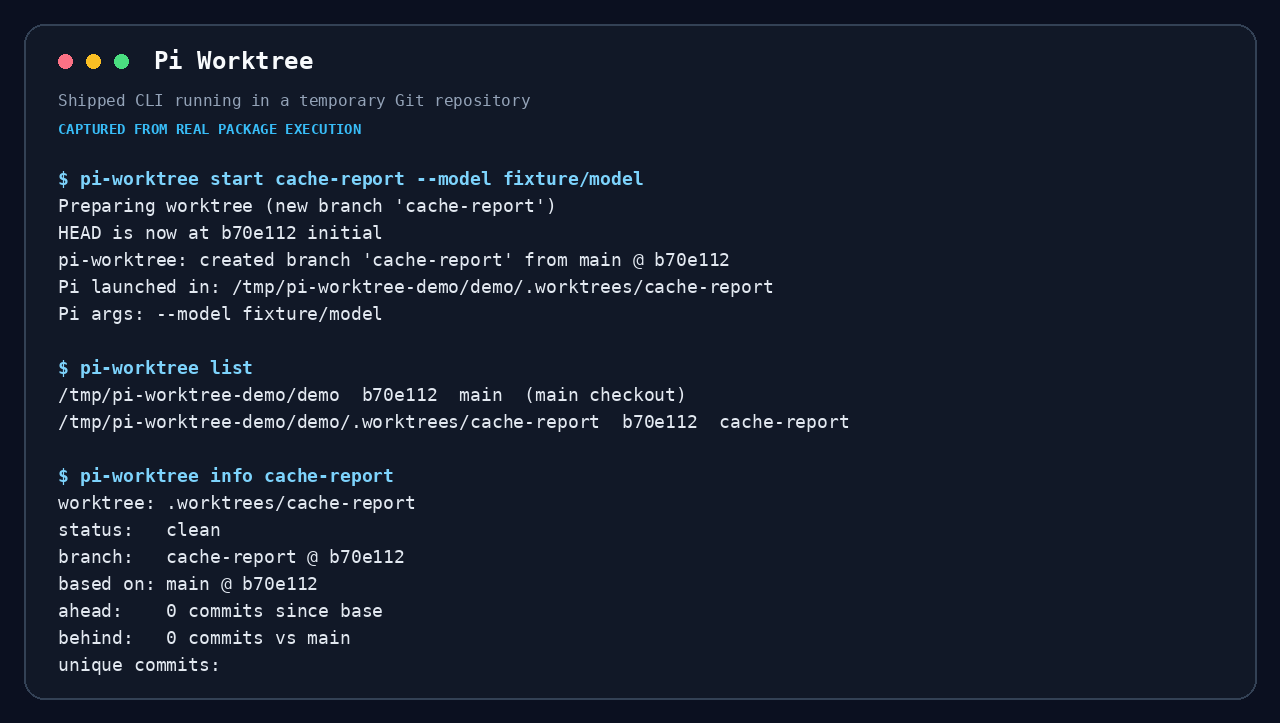
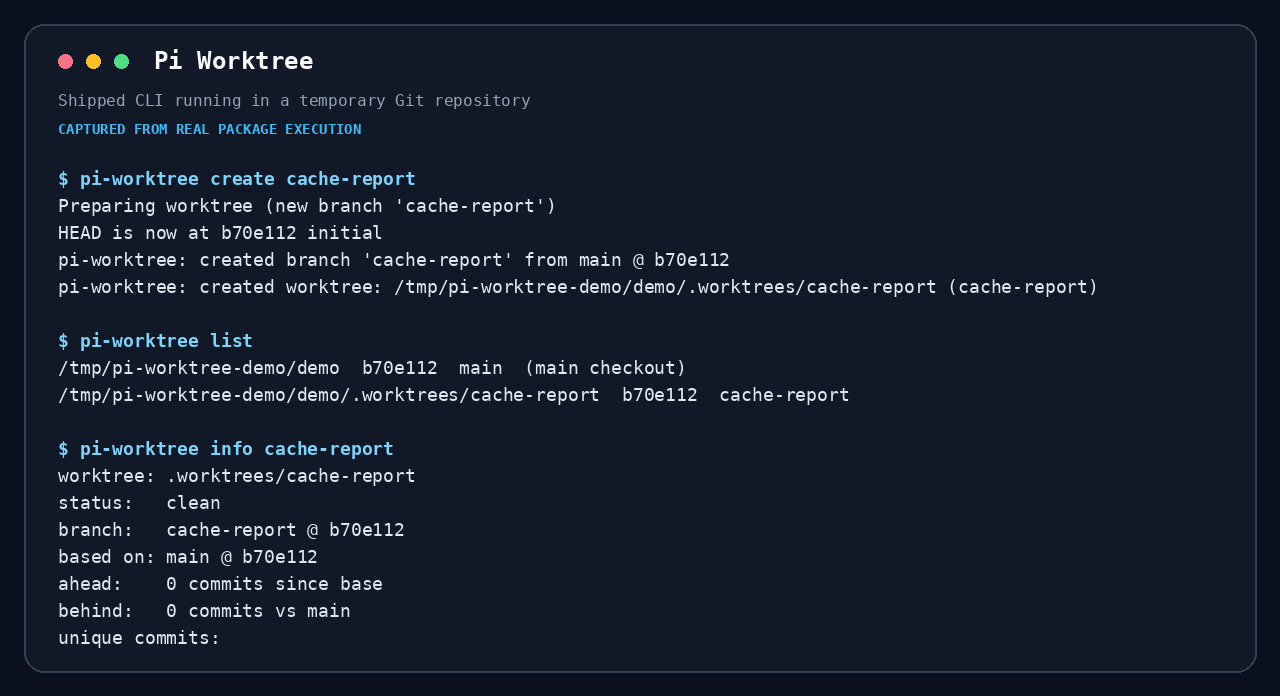
replace worktree CLI with create command

diff --git a/packages/worktree/extensions/worktree.ts b/packages/worktree/extensions/worktree.ts
@@ -7,14 +7,14 @@ import { Type } from "typebox";
 const CLI_PATH = fileURLToPath(new URL("../bin/pi-worktree", import.meta.url));
 const PENDING_SWITCH_ARGUMENT = "__enter_worktree_pending__";
 
-export interface WorktreePrepareResult {
+export interface WorktreeCreateResult {
   status: "created" | "attached" | "reused" | "already-active";
   path: string;
   branch: string;
   dirty: boolean;
 }
 
-export interface EnterWorktreeResult extends WorktreePrepareResult {
+export interface EnterWorktreeResult extends WorktreeCreateResult {
   switch: "scheduled" | "already-active";
 }
 
@@ -49,41 +49,41 @@ function parseCommandArgs(input: string): { name: string; base?: string } {
   return { name, base };
 }
 
-function parsePrepareOutput(stdout: string): WorktreePrepareResult {
+function parseCreateOutput(stdout: string): WorktreeCreateResult {
   const line = stdout.trim().split("\n").filter(Boolean).at(-1);
-  if (!line) throw new Error("pi-worktree prepare 没有返回结果");
-  const result = JSON.parse(line) as Partial<WorktreePrepareResult>;
+  if (!line) throw new Error("pi-worktree create 没有返回结果");
+  const result = JSON.parse(line) as Partial<WorktreeCreateResult>;
   if (
     !["created", "attached", "reused", "already-active"].includes(String(result.status))
     || typeof result.path !== "string"
     || typeof result.branch !== "string"
     || typeof result.dirty !== "boolean"
   ) {
-    throw new Error("pi-worktree prepare 返回了无效结果");
+    throw new Error("pi-worktree create 返回了无效结果");
   }
-  return result as WorktreePrepareResult;
+  return result as WorktreeCreateResult;
 }
 
-async function prepareWorktree(
+async function createWorktree(
   pi: ExtensionAPI,
   cwd: string,
   name: string,
   base?: string,
   signal?: AbortSignal,
-): Promise<WorktreePrepareResult> {
-  const args = ["prepare", "--json"];
+): Promise<WorktreeCreateResult> {
+  const args = ["create", "--json"];
   if (base) args.push("--base", base);
   args.push(name);
   const result = await pi.exec(CLI_PATH, args, { cwd, signal });
   if (result.code !== 0) {
-    throw new Error(result.stderr.trim() || result.stdout.trim() || `pi-worktree prepare 失败（退出码 ${result.code}）`);
+    throw new Error(result.stderr.trim() || result.stdout.trim() || `pi-worktree create 失败（退出码 ${result.code}）`);
   }
   if (signal?.aborted) throw new Error("worktree 创建已取消");
-  return parsePrepareOutput(result.stdout);
+  return parseCreateOutput(result.stdout);
 }
 
 export default function worktreeExtension(pi: ExtensionAPI) {
-  let pendingSwitch: WorktreePrepareResult | undefined;
+  let pendingSwitch: WorktreeCreateResult | undefined;
   let pendingDispatchScheduled = false;
   let transitionReserved = false;
 
@@ -108,7 +108,7 @@ export default function worktreeExtension(pi: ExtensionAPI) {
     description: "创建或复用 worktree，并在当前界面切换过去",
     handler: async (input, ctx) => {
       const isPendingSwitch = input.trim() === PENDING_SWITCH_ARGUMENT;
-      let prepared: WorktreePrepareResult;
+      let created: WorktreeCreateResult;
       let targetSessionFile: string;
       try {
         if (!isPendingSwitch && transitionReserved) {
@@ -127,25 +127,25 @@ export default function worktreeExtension(pi: ExtensionAPI) {
 
         await ctx.waitForIdle();
         if (requestedSwitch) {
-          prepared = requestedSwitch;
+          created = requestedSwitch;
         } else {
           const { name, base } = parseCommandArgs(input);
-          prepared = await prepareWorktree(pi, ctx.cwd, name, base);
+          created = await createWorktree(pi, ctx.cwd, name, base);
         }
-        if (resolve(ctx.cwd) === resolve(prepared.path)) {
+        if (resolve(ctx.cwd) === resolve(created.path)) {
           if (isPendingSwitch) {
             pendingSwitch = undefined;
             pendingDispatchScheduled = false;
           }
           transitionReserved = false;
-          ctx.ui.notify(`已经位于 worktree：${prepared.path}`, "info");
+          ctx.ui.notify(`已经位于 worktree：${created.path}`, "info");
           return;
         }
 
         const sessionDir = ctx.sessionManager.usesDefaultSessionDir()
           ? undefined
           : ctx.sessionManager.getSessionDir();
-        const target = SessionManager.forkFrom(sourceSessionFile, prepared.path, sessionDir);
+        const target = SessionManager.forkFrom(sourceSessionFile, created.path, sessionDir);
         targetSessionFile = target.getSessionFile() ?? "";
         if (!targetSessionFile) throw new Error("无法为 worktree 创建持久会话");
       } catch (error) {
@@ -162,12 +162,12 @@ export default function worktreeExtension(pi: ExtensionAPI) {
       try {
         switched = await ctx.switchSession(targetSessionFile, {
           withSession: async (next) => {
-            const dirtyNote = prepared.dirty ? "（已有未提交改动）" : "";
+            const dirtyNote = created.dirty ? "（已有未提交改动）" : "";
             await next.sendMessage({
               customType: "worktree-switch",
-              content: `✓ 已进入 worktree：${prepared.path}\nBranch: ${prepared.branch}${dirtyNote}\n\n在worktree继续任务`,
+              content: `✓ 已进入 worktree：${created.path}\nBranch: ${created.branch}${dirtyNote}\n\n在worktree继续任务`,
               display: true,
-              details: prepared,
+              details: created,
             }, { triggerTurn: true, deliverAs: "followUp" });
           },
         });
@@ -214,28 +214,28 @@ export default function worktreeExtension(pi: ExtensionAPI) {
       }
       transitionReserved = true;
 
-      let prepared: WorktreePrepareResult;
+      let created: WorktreeCreateResult;
       try {
-        prepared = await prepareWorktree(pi, ctx.cwd, params.name, params.base, signal);
+        created = await createWorktree(pi, ctx.cwd, params.name, params.base, signal);
         if (signal.aborted) throw new Error("worktree 创建已取消");
       } catch (error) {
         transitionReserved = false;
         throw error;
       }
-      const alreadyActive = resolve(ctx.cwd) === resolve(prepared.path);
+      const alreadyActive = resolve(ctx.cwd) === resolve(created.path);
       const result: EnterWorktreeResult = {
         switch: alreadyActive ? "already-active" : "scheduled",
-        ...prepared,
+        ...created,
       };
       if (alreadyActive) transitionReserved = false;
-      else pendingSwitch = prepared;
-      const dirtyNote = prepared.dirty ? " 目标 worktree 已有未提交改动。" : "";
+      else pendingSwitch = created;
+      const dirtyNote = created.dirty ? " 目标 worktree 已有未提交改动。" : "";
       return {
         content: [{
           type: "text",
           text: alreadyActive
-            ? `已经位于 worktree：${prepared.path}.${dirtyNote}`
-            : `Worktree ${prepared.status}: ${prepared.path}.${dirtyNote} 当前 Agent run 结束后会自动切换到该目录；不要继续调用仓库工具。`,
+            ? `已经位于 worktree：${created.path}.${dirtyNote}`
+            : `Worktree ${created.status}: ${created.path}.${dirtyNote} 当前 Agent run 结束后会自动切换到该目录；不要继续调用仓库工具。`,
         }],
         details: result,
         structuredContent: result,

diff --git a/packages/worktree/skills/pi-worktree/SKILL.md b/packages/worktree/skills/pi-worktree/SKILL.md
@@ -15,9 +15,7 @@ Installed by the package postinstall hook to `~/.local/bin/pi-worktree`, with ba
 |---|---|
 | `enter_worktree({ name, base? })` | Agent entrypoint: create/reuse a worktree and automatically move this conversation there after the run settles. Call it alone and stop after it returns. |
 | `/worktree start <name> [--base <ref>]` | User entrypoint: fork the current persistent session into the worktree and switch the current Pi UI. |
-| `pi-worktree prepare [--base <ref>] [--json] <name>` | Create/reuse without launching Pi; `--json` is the machine interface. |
-| `pi-worktree start <name> [pi args...]` | Create or reuse `.worktrees/<name>`, then launch Pi inside it. Already inside a linked worktree, it just launches Pi there. |
-| `pi-worktree start --base <ref> <name> [pi args...]` | Same, but branch from `<ref>` instead of the current branch. |
+| `pi-worktree create [--base <ref>] [--json] <name>` | Idempotently create/reuse without launching Pi; `--json` is the machine interface. |
 | `pi-worktree list` | All worktrees; the main checkout is marked `(main checkout)`, stale registrations are flagged. |
 | `pi-worktree info <name>` | Clean/dirty status, branch and HEAD, base commit, ahead/behind `main`, unique commits. |
 | `pi-worktree out` | Open a shell in the main checkout (for merging). |
@@ -27,7 +25,7 @@ Installed by the package postinstall hook to `~/.local/bin/pi-worktree`, with ba
 ## Isolating a task
 
 1. **Survey** — `pi-worktree list`, plus `pi-worktree info <name>` when the name you want is already taken. Reuse is free; a removed worktree is gone for good, because `remove` deletes its branch.
-2. **Enter** — as an Agent, call `enter_worktree` once and stop; the Extension switches automatically after settlement. A user can instead run `/worktree start <name>`. Use the CLI `start` only when a separate Pi process is wanted.
+2. **Enter** — as an Agent, call `enter_worktree` once and stop; the Extension switches automatically after settlement. A user can instead run `/worktree start <name>`.
 3. **Work** — inside the worktree: commit there, and check `pi-worktree info <name>` before claiming progress. `ahead: N commits since base` is the evidence.
 4. **Land** — `pi-worktree out`, then `git merge <name>` in the main checkout. Done when the worktree's unique commits are in the target branch.
 5. **Clean up** — `pi-worktree remove <name>`. A merged branch goes without prompting; anything unmerged asks once.
@@ -36,6 +34,5 @@ Installed by the package postinstall hook to `~/.local/bin/pi-worktree`, with ba
 
 - Prefer `enter_worktree` when it is available. After the tool returns, do not read or modify repository files; the Extension waits for `agent_settled`, then forks the session into the target cwd and switches automatically.
 - `/worktree` is user-facing and cannot be invoked by the model. It requires a persisted session because it forks history into a session whose header owns the worktree cwd.
-- `pi-worktree start` **execs a new `pi`** in the worktree, and `out` execs a shell. Use this only for an intentionally separate process/session.
-- `prepare` is idempotent. It reports whether the target was created, attached, reused, or already active, and reports dirty reuse rather than discarding anything.
+- `create` is idempotent and never launches Pi. It reports whether the target was created, attached, reused, or already active, and reports dirty reuse rather than discarding anything.
 - `remove` asks before discarding dirty files or unmerged commits, and a non-interactive stdin (EOF) aborts safely. Answer explicitly when the removal is intended: `printf 'y\ny\n' | pi-worktree remove <name>`.

diff --git a/packages/worktree/README.md b/packages/worktree/README.md
@@ -1,6 +1,6 @@
 # @maxiaochao/pi-worktree
 
-`pi-worktree` CLI、Pi Extension 与配套 skill。它既能启动独立 Pi，也能让用户或 Agent 在当前 Pi 界面中切换 worktree，并保留完整对话。
+`pi-worktree` CLI、Pi Extension 与配套 skill。CLI 负责管理 worktree；Extension 让用户或 Agent 在当前 Pi 界面中切换，并保留完整对话。
 
 ![Worktree 在真实临时 Git 仓库中的运行截图](docs/screenshot.png)
 
@@ -13,14 +13,14 @@
 ![Worktree 隔离流程演示](docs/demo.gif)
 
 ```bash
-pi-worktree start feature -p "implement the feature"
-pi-worktree prepare --json feature
+pi-worktree create feature
+pi-worktree create --base main --json feature
 pi-worktree info feature
 pi-worktree out
 pi-worktree remove feature
 ```
 
-`start` 从当前分支创建或复用 `.worktrees/feature`，记录 base，并在该目录启动 Pi。`prepare` 复用同一创建逻辑，但只返回目标，不启动嵌套 Pi。
+`create` 从当前分支（或显式 `--base`）创建或复用 `.worktrees/feature` 并记录 base，不启动 Pi。`--json` 提供相同操作的机器可读结果。
 
 在交互式 Pi 中，用户可以保留当前界面和完整对话：
 
@@ -61,8 +61,7 @@ pi update npm:@maxiaochao/pi-worktree # 更新独立子包
 ## 命令
 
 ```bash
-pi-worktree start <name> [pi args...]
-pi-worktree prepare [--base <ref>] [--json] <name>
+pi-worktree create [--base <ref>] [--json] <name>
 pi-worktree list
 pi-worktree info <name>
 pi-worktree out
@@ -70,6 +69,6 @@ pi-worktree remove <name>
 pi-worktree prune
 ```
 
-`prepare --json` 是 Extension 和其他宿主使用的幂等机器接口，返回 `created`、`attached`、`reused` 或 `already-active`，以及绝对路径、分支和 dirty 状态。已有 worktree 会复用；已存在但未挂载的同名分支会挂载；stale 注册、非法名称和路径冲突会显式失败。
+`create` 是幂等接口；`create --json` 供 Extension 和其他宿主使用，返回 `created`、`attached`、`reused` 或 `already-active`，以及绝对路径、分支和 dirty 状态。已有 worktree 会复用；已存在但未挂载的同名分支会挂载；stale 注册、非法名称和路径冲突会显式失败。
 
 Agent 用法见 `skills/pi-worktree/SKILL.md`。测试流程、夹具和结果见 [TESTING.md](TESTING.md)。

diff --git a/packages/worktree/TESTING.md b/packages/worktree/TESTING.md
@@ -4,19 +4,19 @@
 
 1. `npm --prefix packages/worktree test`：在临时 Git 仓库中运行 CLI，并验证 Extension 注册、延迟命令桥接和 session 切换生命周期。
 2. `npm pack ./packages/worktree --dry-run`：确认 CLI、completion、skill 和安装脚本进入 tarball。
-3. 手工验收发布包的 `pi-worktree start` 交互流程。
+3. 手工验收发布包的 `pi-worktree create` 创建与复用流程。
 4. 确认 README 示例、真实临时 Git 仓库输出 `docs/screenshot.png` 和 `docs/demo.gif` 进入 tarball。
 
 ## 用例数据
 
 - `--help` 输出命令说明。
-- `start` 从当前分支创建 `.worktrees/<name>` 并记录 base。
-- `prepare --json` 覆盖 created、reused、already-active、dirty 和非法名称安全失败。
+- `create` 从当前分支创建 `.worktrees/<name>` 并记录 base。
+- `create --json` 覆盖 created、reused、already-active、dirty 和非法名称安全失败。
 - `/worktree start` 把历史 fork 到 cwd 正确的新 session，再调用 `switchSession`。
-- `enter_worktree` 串行准备目标，在 `agent_settled` 后触发内部命令，并 fork 当前 session 后调用 `switchSession`。
+- `enter_worktree` 串行创建或复用目标，在 `agent_settled` 后触发内部命令，并 fork 当前 session 后调用 `switchSession`。
 - Agent 轮被中止时不触发切换；用户取消 session replacement 时删除派生 session。
 - 自定义 session 目录在 fork 后保持不变。
-- 假 Pi 收到正确工作目录和参数。
+- 已删除的 CLI `start` 和 `prepare` 会显式失败。
 - `list` 标记主 checkout 和子 worktree。
 - `info` 报告 clean、branch、base 和 ahead。
 - postinstall 把可执行 CLI 与 completion 复制到隔离 HOME，并保持执行权限。

diff --git a/CHANGELOG.md b/CHANGELOG.md
@@ -1,3 +1,7 @@
+## Unreleased
+
+- Replace `pi-worktree start` and `pi-worktree prepare` with the create-only `pi-worktree create` CLI; `/worktree start` and `enter_worktree` continue to switch the current Pi session.
+
 ## 2026-10-12 - v0.10.22
 
 - bundle herdr-subagents v0.4.8: make blocking behave identically in serial and parallel runs and let respond continue a named failed task from its saved session

diff --git a/packages/worktree/CHANGELOG.md b/packages/worktree/CHANGELOG.md
@@ -1,5 +1,9 @@
 # Changelog
 
+## Unreleased
+
+- replace the CLI `start` and `prepare` commands with one idempotent `create` command that never launches Pi
+
 ## 2026-10-09 - v0.3.2
 
 - continue Agent tasks automatically after switching into a worktree
